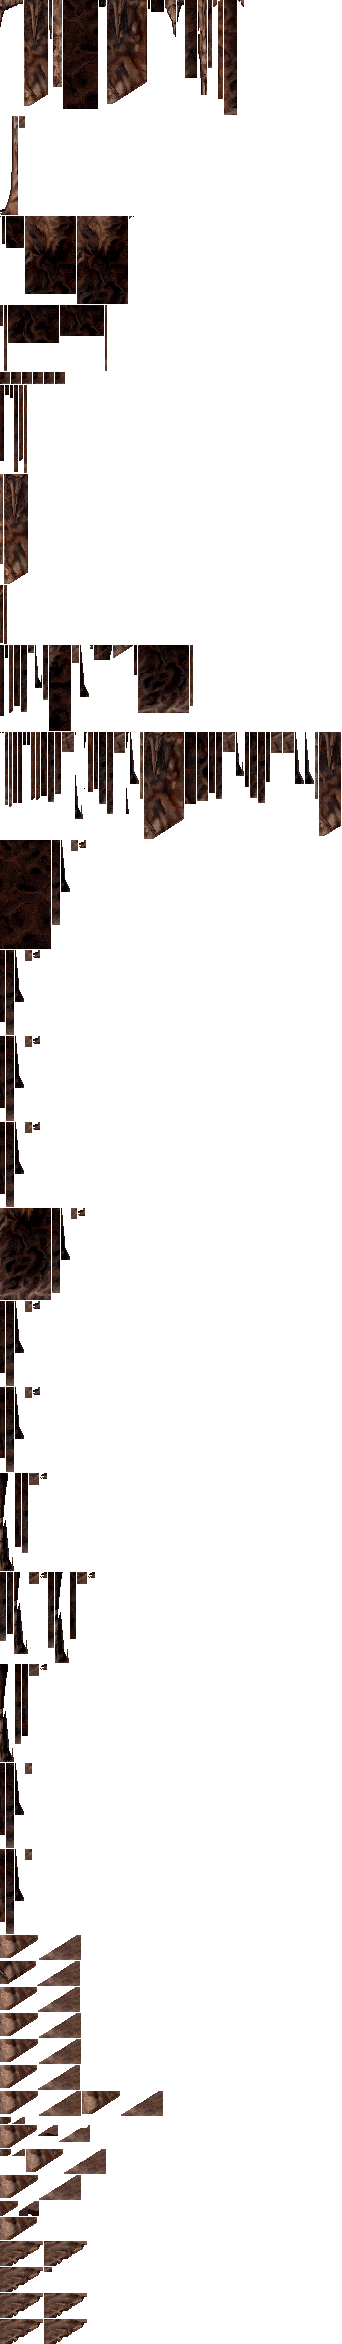
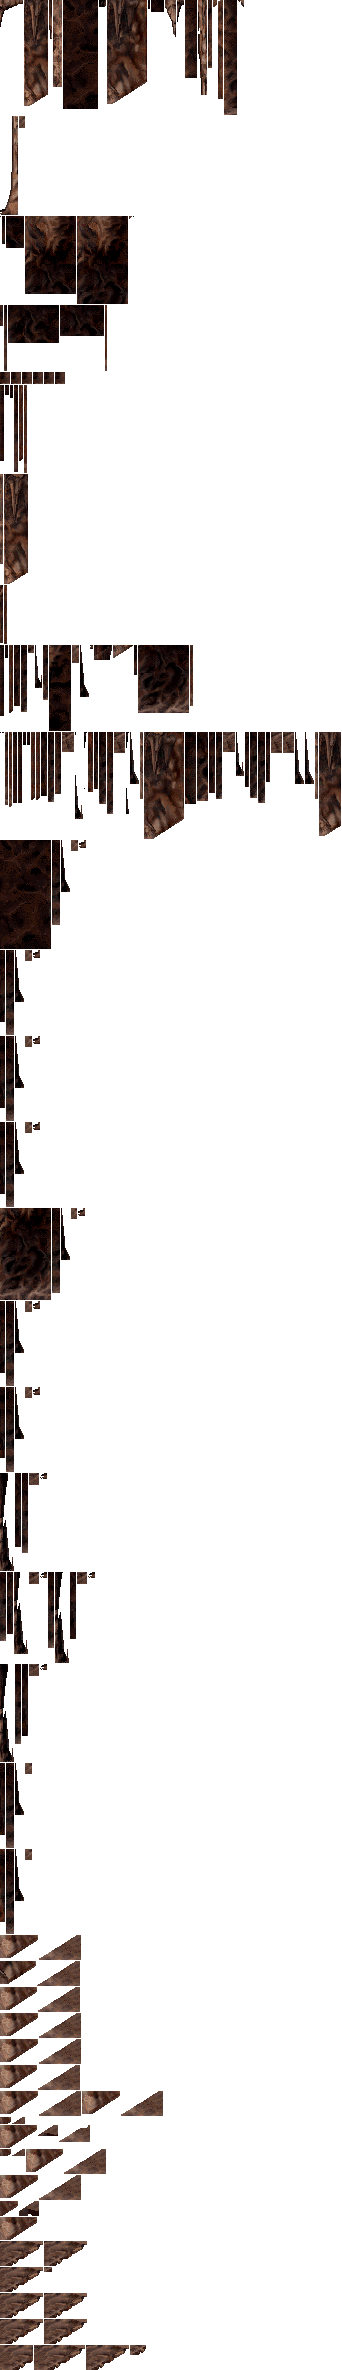
Blend approved right floor tips in level 3 room 5

diff --git a/tests/test_cavern_retouch.py b/tests/test_cavern_retouch.py
@@ -54,7 +54,7 @@ class BundledCavernRetouchTests(unittest.TestCase):
 
     def test_bundled_variants_have_valid_scope_and_crop_sizes(self):
         assets = retouch_assets()
-        self.assertEqual(len(assets), 89)
+        self.assertEqual(len(assets), 91)
         self.assertEqual({key[0] for key in assets}, {0, 1, 2, 3, 4, 6, 7, 10, 11, 12, 14, 15, 20, 23, 25, 27, 29, 31})
         for key, (record, image) in assets.items():
             with self.subTest(key=key):

diff --git a/docs/CAVERN_ARTWORK.md b/docs/CAVERN_ARTWORK.md
@@ -352,3 +352,4 @@ artwork; no original golden or mask assertion is discarded.
[4 lines of base64/hex data omitted]
